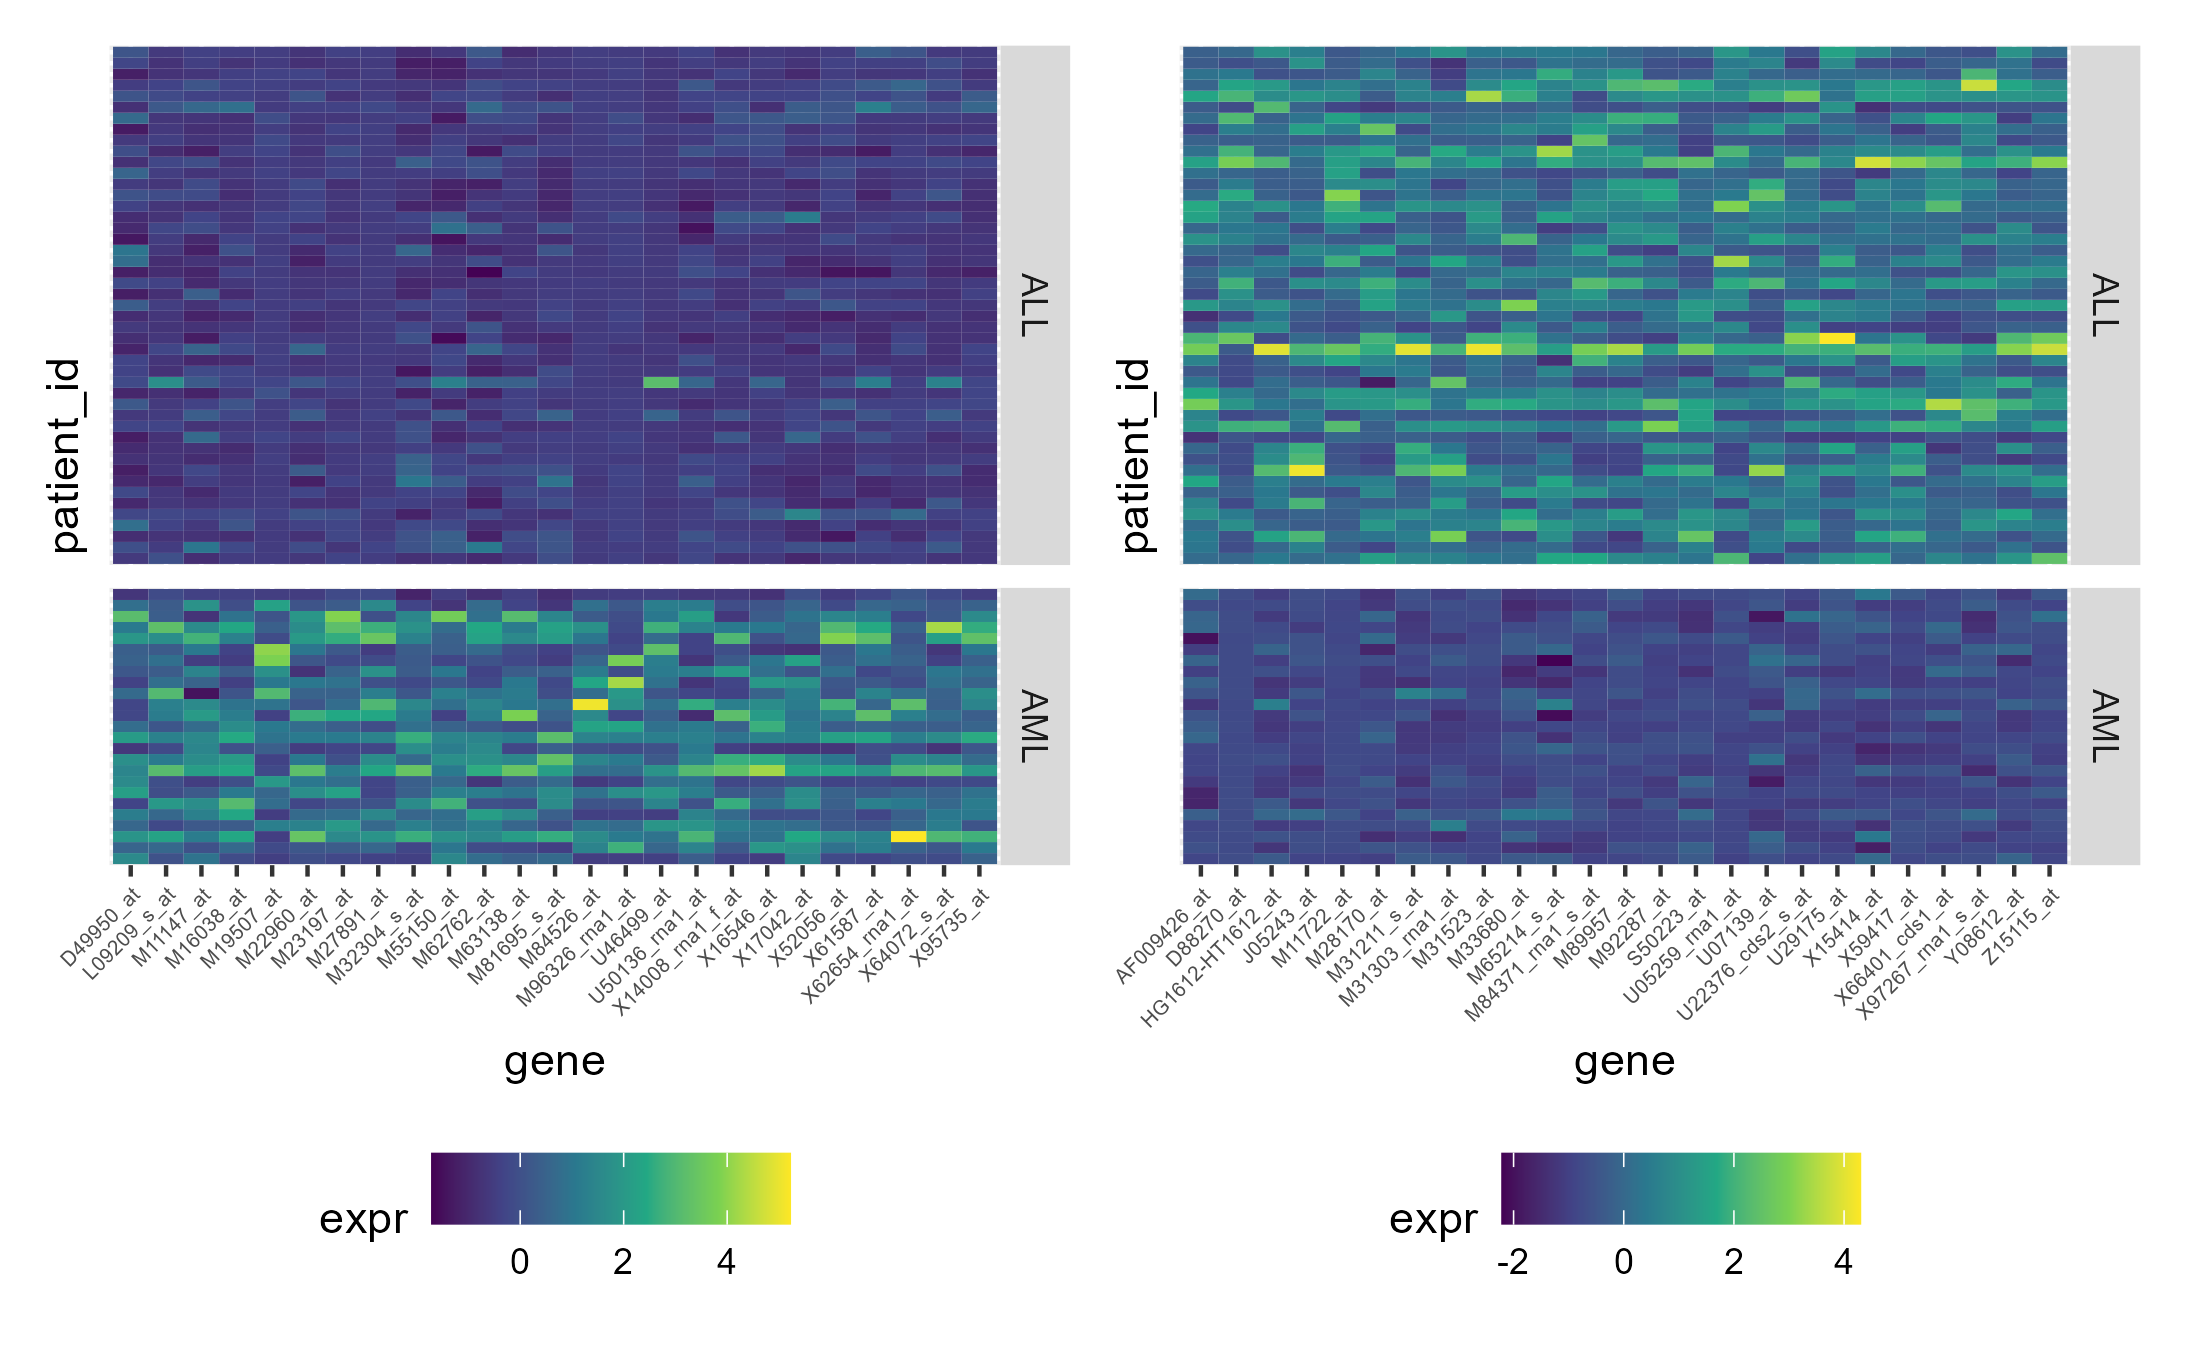
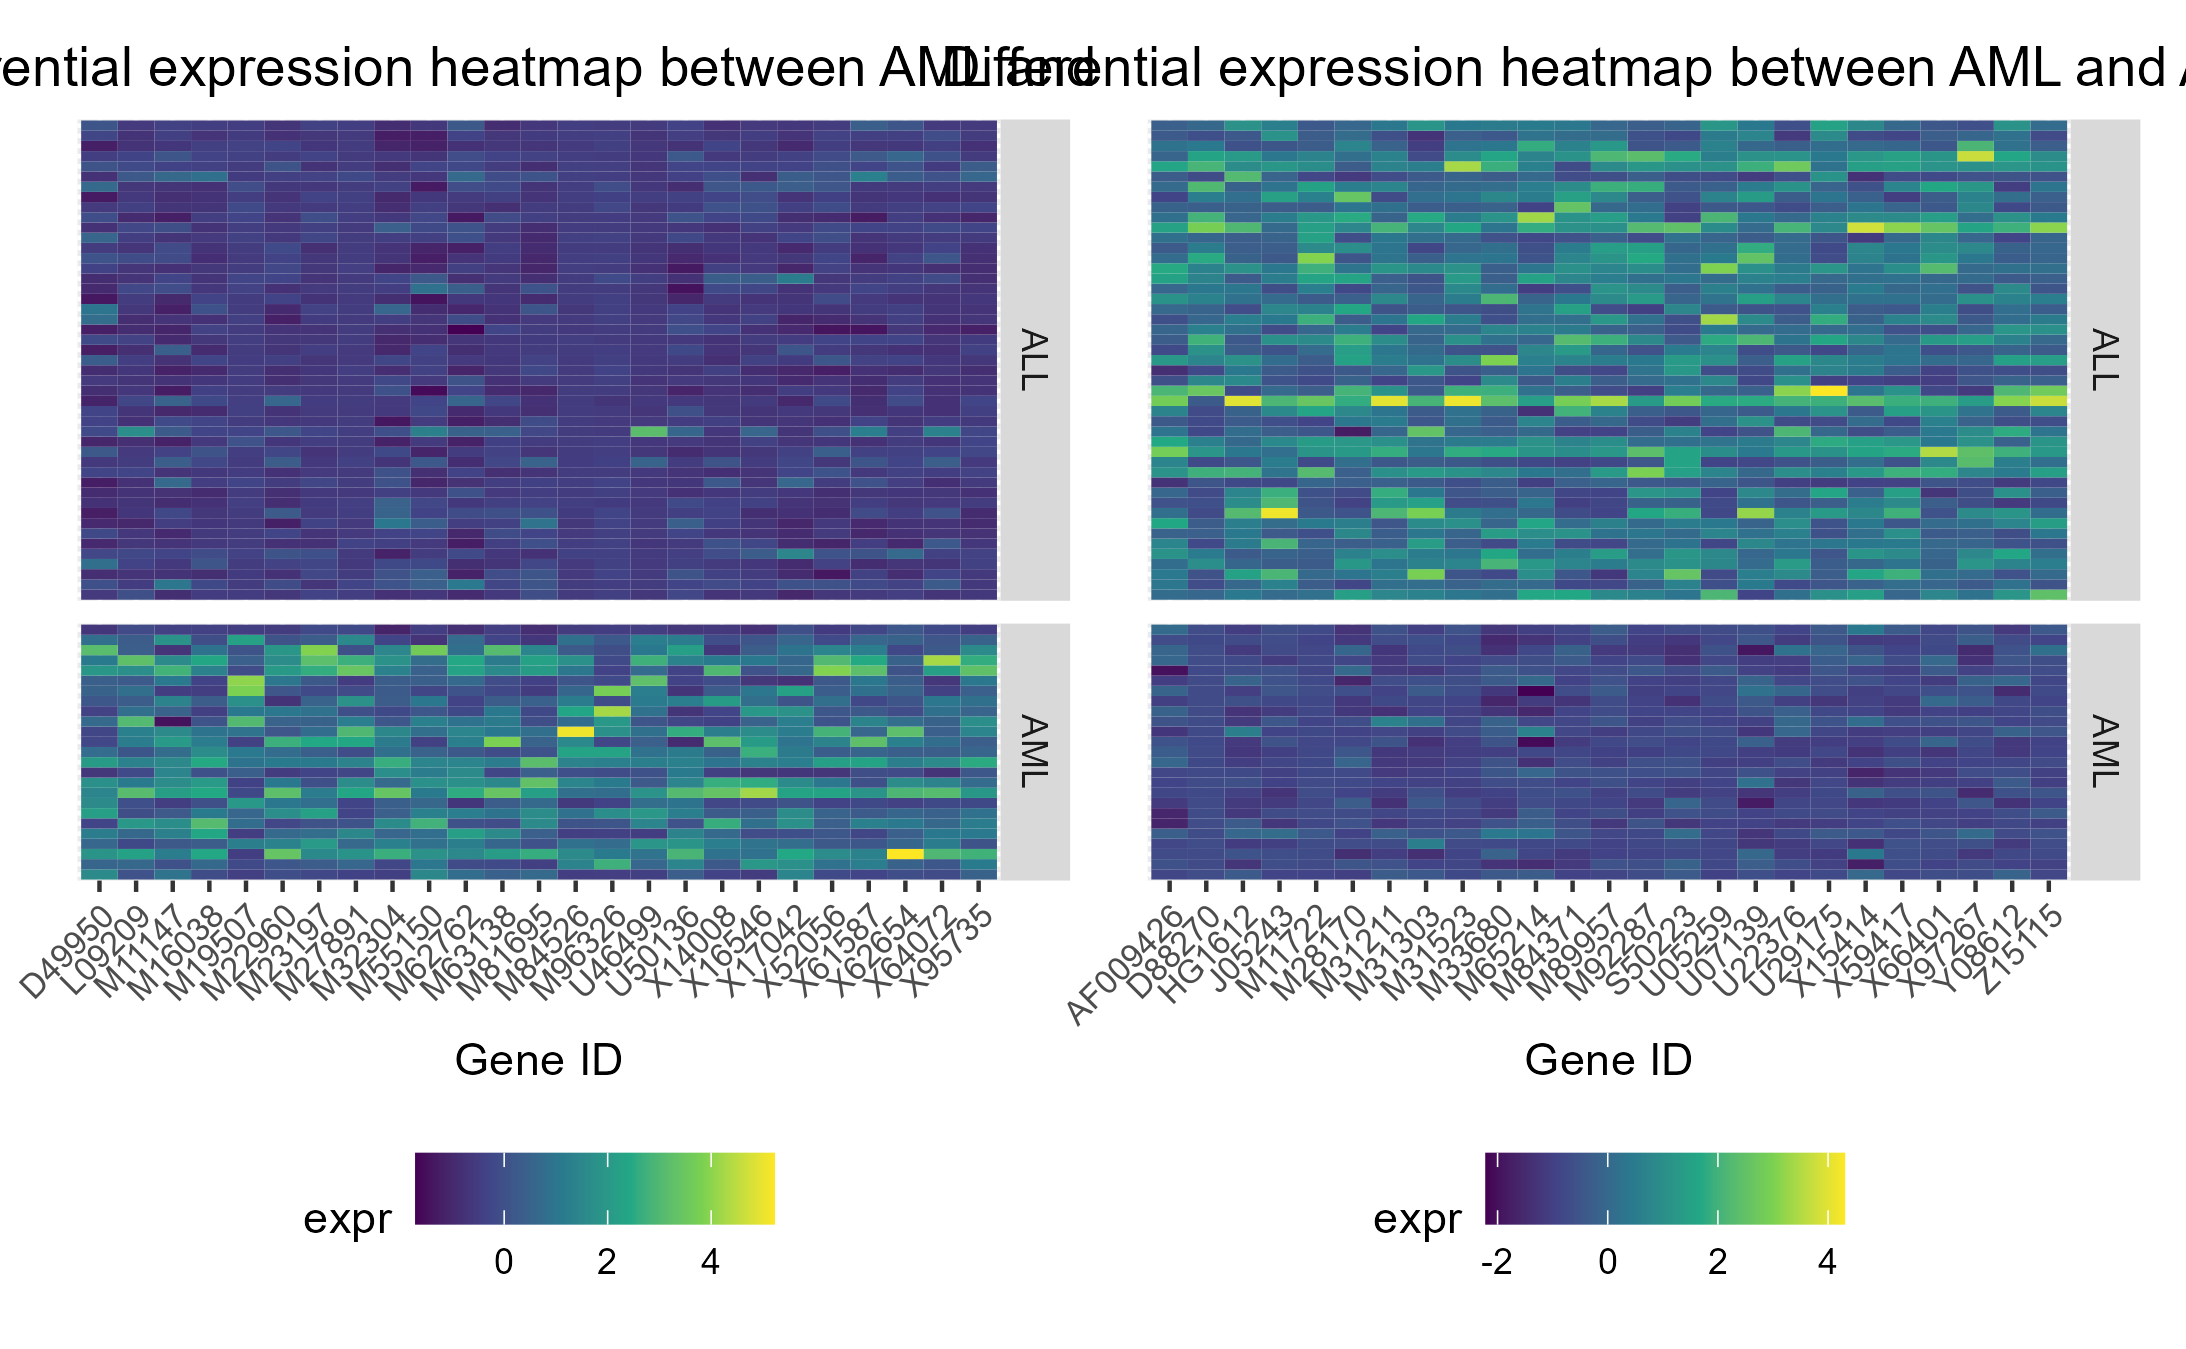
fixed slide, edits to image results

diff --git a/doc/presentation.html b/doc/presentation.html
@@ -363,7 +363,7 @@ Group 28
 
 <h3 class="smaller" id="results---differential-expression-heatmap">Results - Differential expression heatmap</h3>
 <div class="columns">
-<div class="column" style="width:40%;">
+<div class="column" style="width:30%;">
 <div class="r-fit-text">
 <ul>
 <li>Linear modelling applied to find change in expression between ALL (0) and AML (1)</li>
@@ -373,18 +373,21 @@ Group 28
 <li>Heatmap shows normalized expression differences</li>
 </ul>
 </div>
-</div><div class="column" style="width:60%;">
-<p><img data-src="../results/05_combined_heatmap.png" class="fragment" style="width:75.0%;height:75.0%"></p>
+</div><div class="column" style="width:70%;">
+<div class="r-stack">
+<p><img data-src="../results/05_heatmap_1.png" class="fragment fade-out"></p>
+<p><img data-src="../results/05_heatmap_2.png" class="fragment"></p>
+</div>
 </div>
 </div>
 </section>
 <section class="slide level2">
 
 <h3 id="discussion">Discussion</h3>
-<ul>
-<li>Turn off alarm</li>
-<li>Get out of bed</li>
-</ul>
+<div class="r-stack">
+<p><img data-src="../results/05_heatmap_1.png" class="fragment"></p>
+<p><img data-src="../results/05_heatmap_2.png" class="fragment"></p>
+</div>
 <div class="footer footer-default">
 
 </div>
